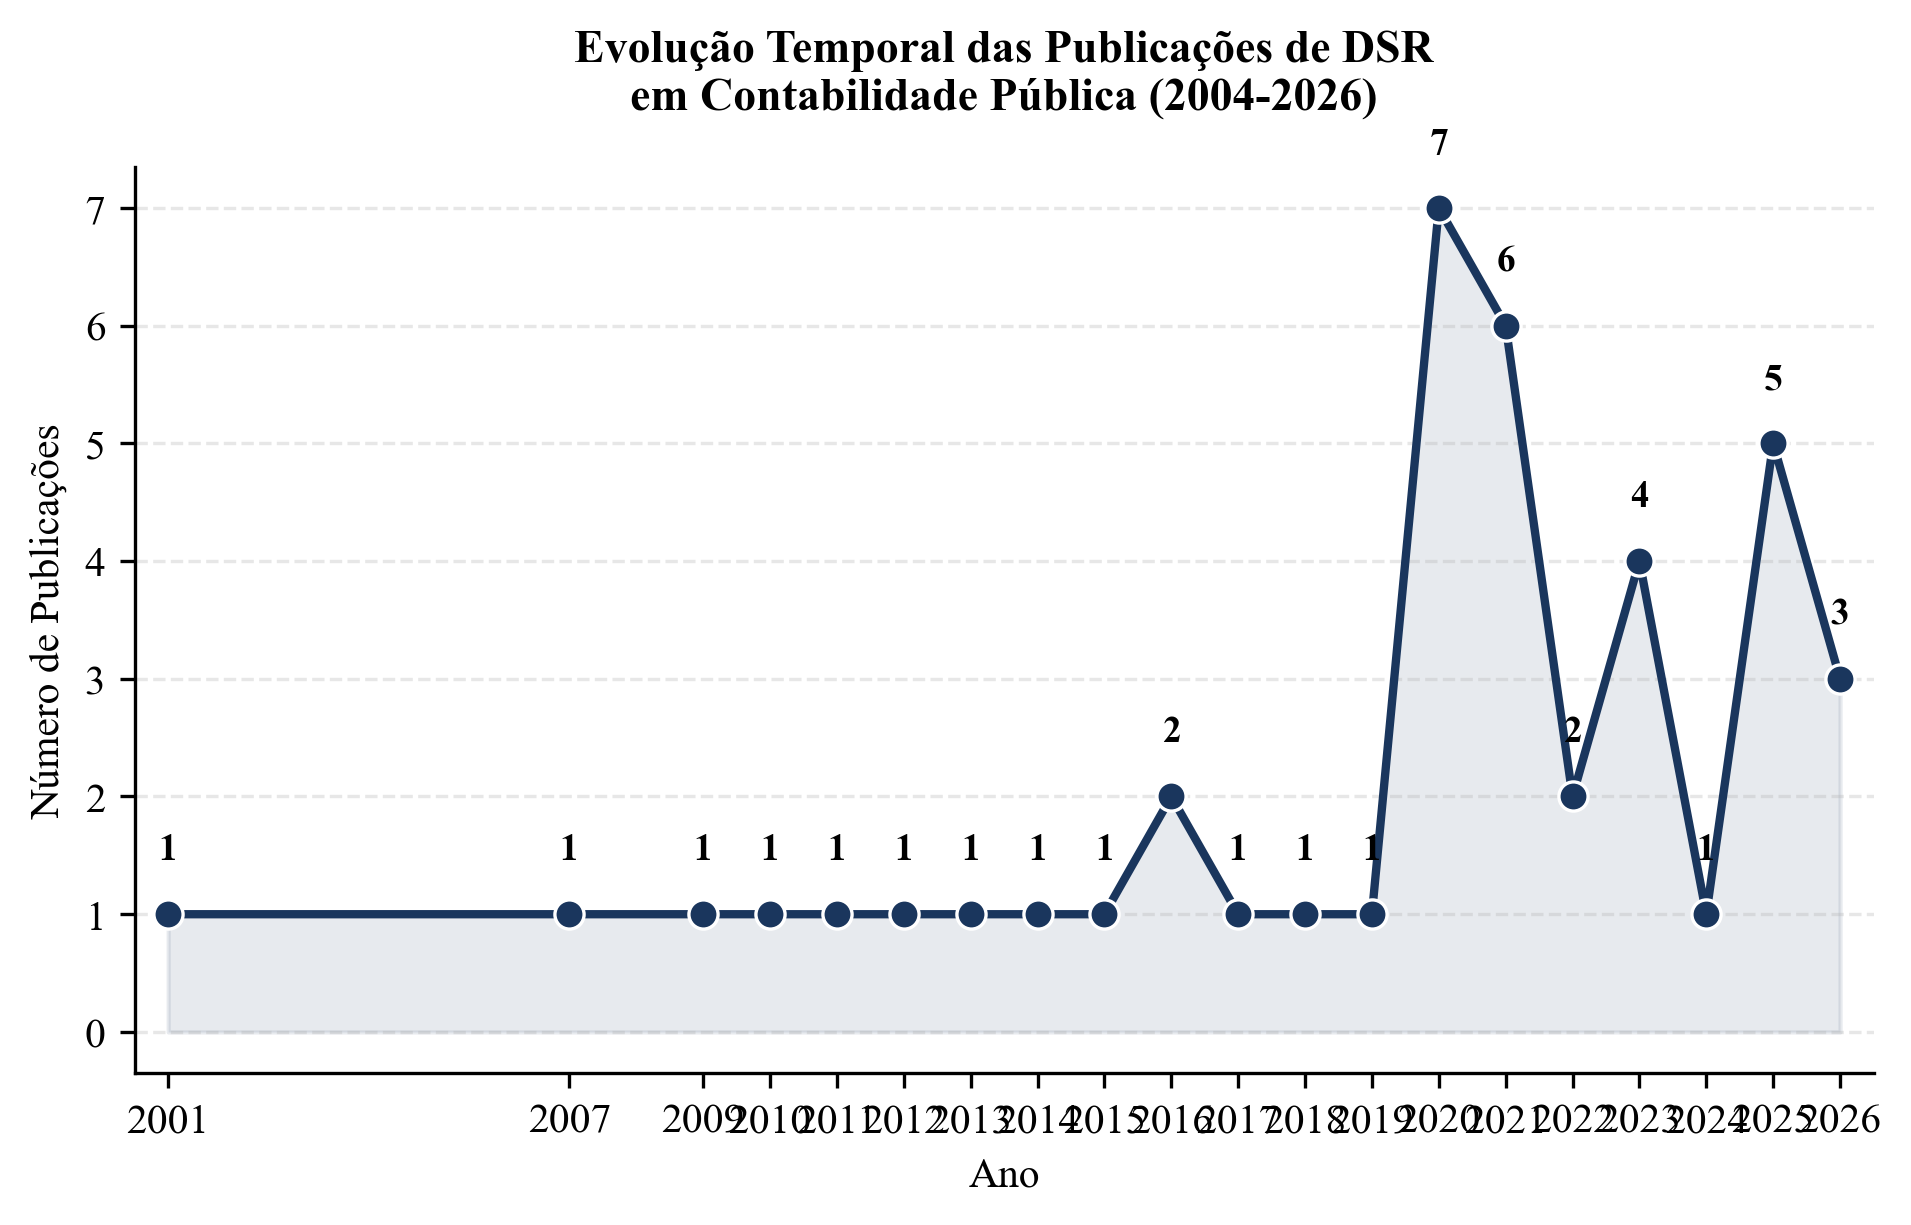
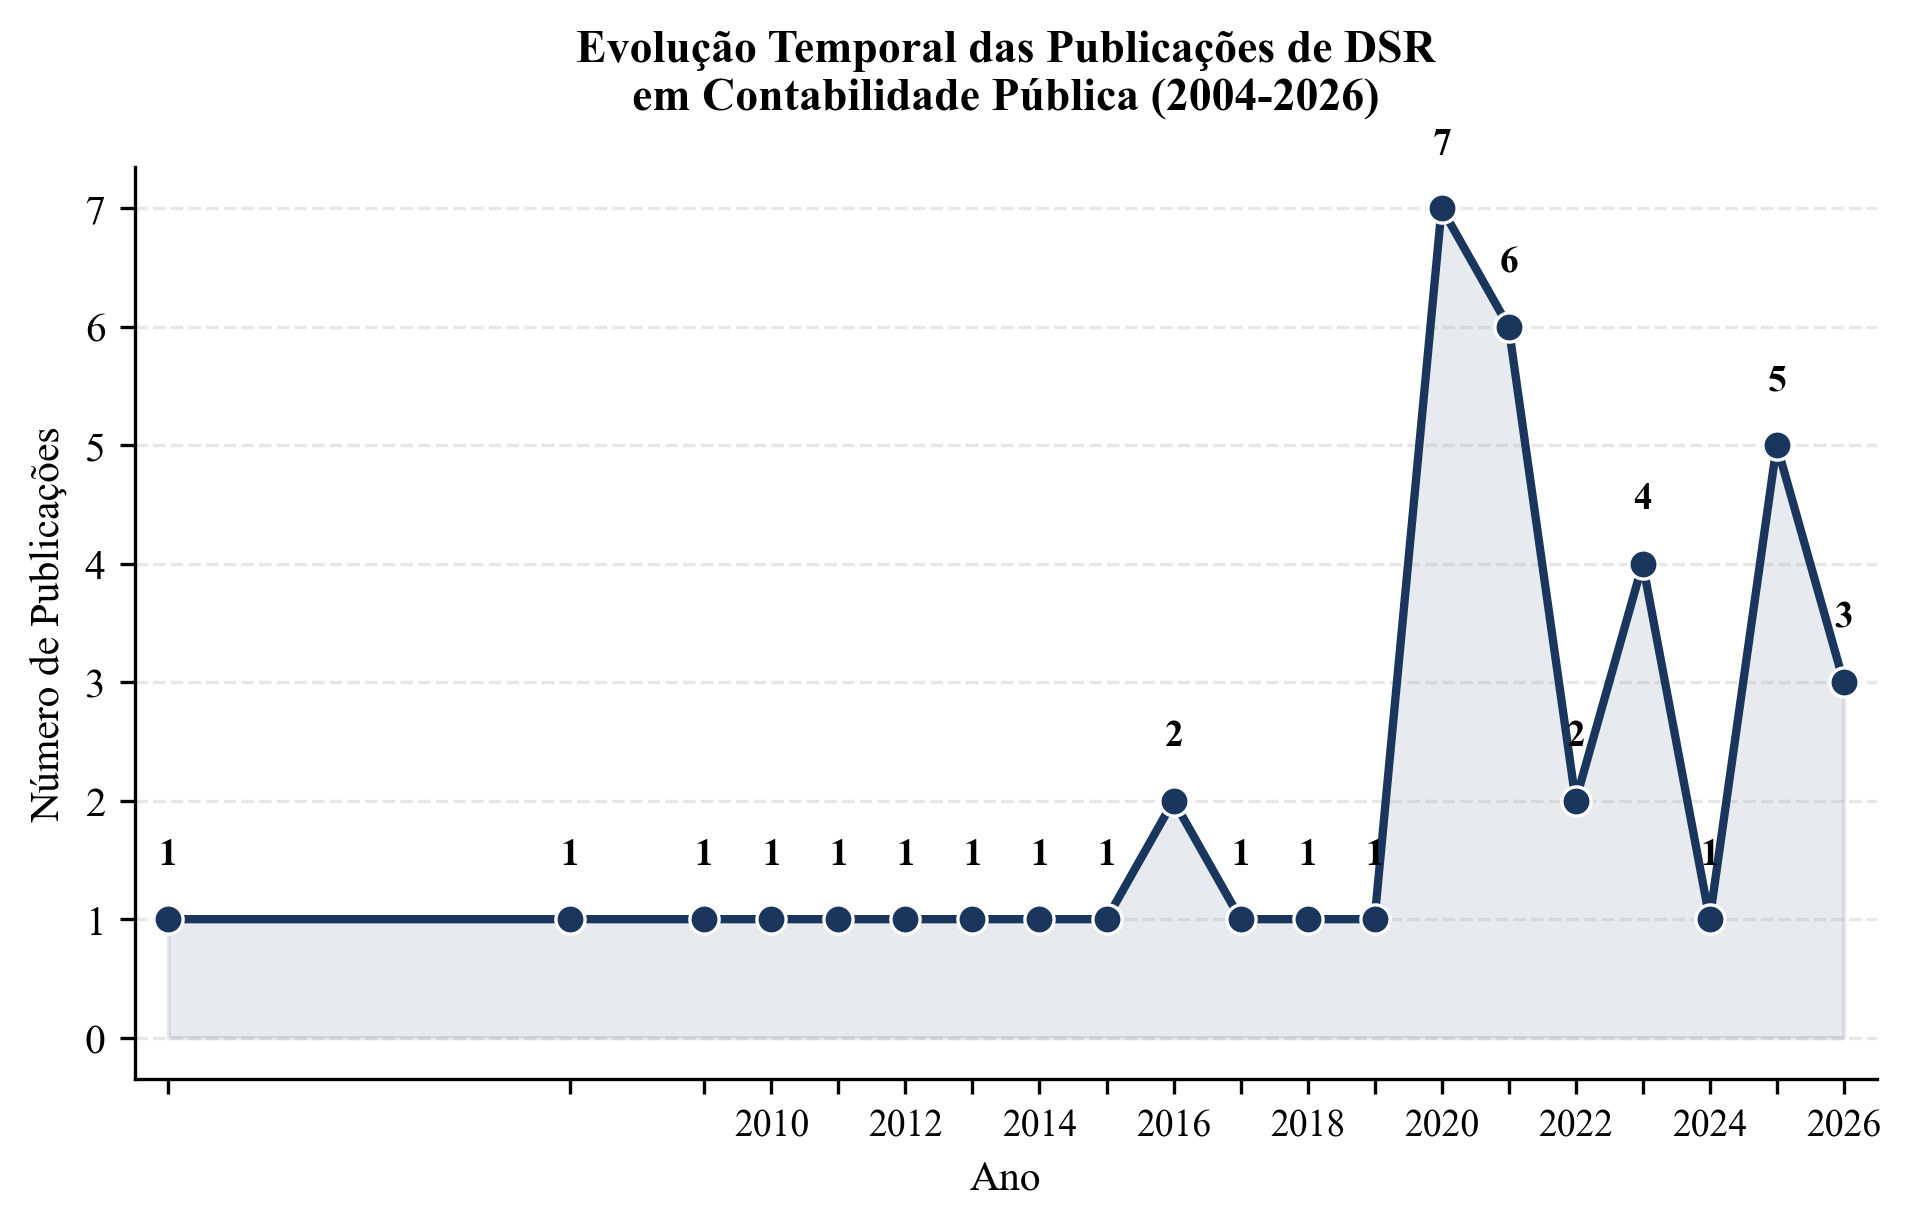
Fix figura 1: escala de 2 em 2 anos para evitar sobreposicao

diff --git a/Artigos/17-DSR-Contabilidade-Publica-Mapeamento-Artefatos/gerar_graficos.py b/Artigos/17-DSR-Contabilidade-Publica-Mapeamento-Artefatos/gerar_graficos.py
@@ -171,6 +171,7 @@ ax3.set_title(
     pad=14,
 )
 ax3.set_xticks(all_years)
+ax3.set_xticklabels([str(y) if y % 2 == 0 else "" for y in all_years], fontsize=9)
 ax3.set_xlim(min(all_years) - 0.5, max(all_years) + 0.5)
 ax3.yaxis.set_major_locator(mticker.MaxNLocator(integer=True))
 ax3.spines["top"].set_visible(False)